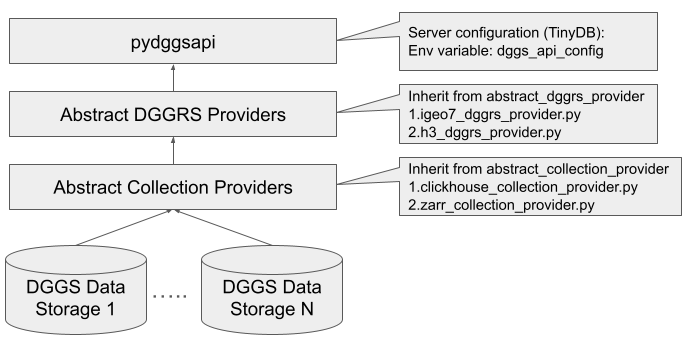
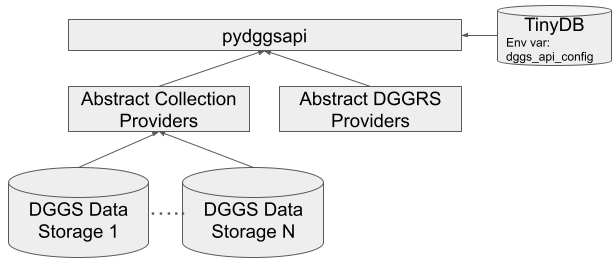
#7 - correction of the overall structure diagram - add section abstract dggrs providers - add section abstract collection providers

Changed region(s): [[0.0, 0.0, 1.0, 0.9962], [0.2159, 0.6642, 0.2468, 0.7245]]

diff --git a/docs/source/tinydb_configuration/index.rst b/docs/source/tinydb_configuration/index.rst
@@ -8,14 +8,18 @@ pydggsapi uses TinyDB to store all information it needs in three tables:
 2. dggrs - the table to store dggrs providers info
 3. collection_providers - the table to store collection providers' info
 
-Generally, users mostly work with the ``collections`` table to publish the collection. The record defines a collection with a unique collection ID, metadata, how to access the data (collection provider) and which DGGRS it supports (DGGRS provider). 
+Generally, users mostly work with the ``collections`` table to publish the collection. The record defines a collection with a unique collection ID, metadata, how to access the data (collection provider) and which DGGRS it supports (DGGRS provider).So, to publish a collection through pydggsapi, the users need to provide the following details : 
+
+1. A DGGS-ready dataset. The dataset is converted/regridded into one of the supported DGGRS by pydggsapi.
+
+2. The dggrs ID for the DGGRS.
+
+3. The collection provider ID that is supported by pydggsapi to access the data.
 
 Developers implementing new DGGRS and collections providers must register the latest providers in the tables ``dggrs`` or ``collection_providers`` with a unique ID such that the implementation can be referenced in the collections table.
 
 You can find the details of those three tables in the upcoming sections.
 
-
-Each data collection must be already formatted  in one of the supported DGGRS implementation (ie. at least one columns to represent the zone ID)
 
 
 collections

diff --git a/docs/source/providers/dggrs/index.rst b/docs/source/providers/dggrs/index.rst
@@ -1,0 +1,41 @@
+Abstract DGGRS providers
+========================
+
+To implement a DGGRS provider, users need to provide the implementation of the five interfaces listed below: 
+
+- get_zone_level_by_cls
+- get_cells_zone_level
+- get_relative_zonelevels
+- zoneslist
+- zonesinfo
+
+DGGRS conversion
+----------------
+
+Apart from the mandatory functions listed above, a DGGRS provider can support optional conversion from itself to other DGGRS (target). 
+
+The main idea behind achieving the purpose is straightforward: give a list of original zone IDs, and map the list to the corresponding target zone IDs. So, the return of the convert function has to ensure that the length of the original zone ID list is the same as the converted one.
+
+To implement the conversion feature, the provider has to:
+
+1. Initialise the ``dggrs_conversion`` to register the target dggrs ID with an object instance from ``conversion_properties``. 
+2. Implement the convert interface.
+
+The ``conversion_properties`` class stores the necessary conversion info if needed; it is not used anywhere in pydggsapi. 
+
+
+Implementation
+--------------
+
+.. toctree::
+   :maxdepth: 2
+   :glob:
+   :hidden:
+
+   implementation/*
+
+
+
+
+
+

diff --git a/docs/source/providers/index.rst b/docs/source/providers/index.rst
@@ -1,5 +1,20 @@
-Abstract Providers
+Abstract providers
 =======================
+
+pydggsapi uses the provider concept to modularise different data access methods and DGGRS implementations. We refer them to the ``collection providers`` and ``DGGRS providers``.  
+
+We introduce two abstract classes (``AbstractDGGRSProvider`` and ``AbstractCollectionProvider``) to expose interfaces that interact with pydggsapi. Users can implement new data storage or DGGRS by inheriting from those two abstract classes. To standardise the parameters and returns of interfaces, we use the Pydantic data model to provide the skeleton. 
+
+
+.. toctree::
+   :maxdepth: 2
+   :glob:
+   :hidden:
+
+   Abstract collection providers <collection_providers/index>
+   Abstract DGGRS providers <dggrs/index>
+
+
 
 
 

diff --git a/docs/source/index.rst b/docs/source/index.rst
@@ -29,4 +29,4 @@ OGC API - DGGS specifies an API for accessing data organised according to a Disc
 
    introduction
    Configuration <tinydb_configuration/index>
-   Abstract providers <providers/index>
+   providers/index

diff --git a/docs/source/providers/collection_providers/index.rst b/docs/source/providers/collection_providers/index.rst
@@ -1,0 +1,8 @@
+Abstract Collection providers
+=============================
+
+
+
+
+
+

diff --git a/docs/source/providers/dggrs/implementation/igeo7_dggrs_provider.rst b/docs/source/providers/dggrs/implementation/igeo7_dggrs_provider.rst
@@ -1,0 +1,11 @@
+IGEO7 DGGRS Provider
+--------------------
+
+
+
+
+
+
+
+
+

diff --git a/docs/source/providers/dggrs/implementation/h3_dggrs_provider.rst b/docs/source/providers/dggrs/implementation/h3_dggrs_provider.rst
@@ -1,0 +1,6 @@
+H3 DGGRS Provider
+-----------------
+
+
+
+
